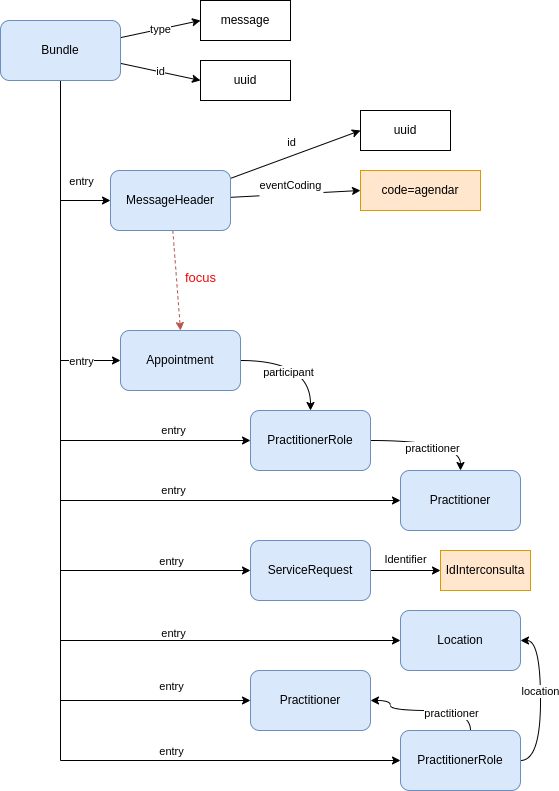
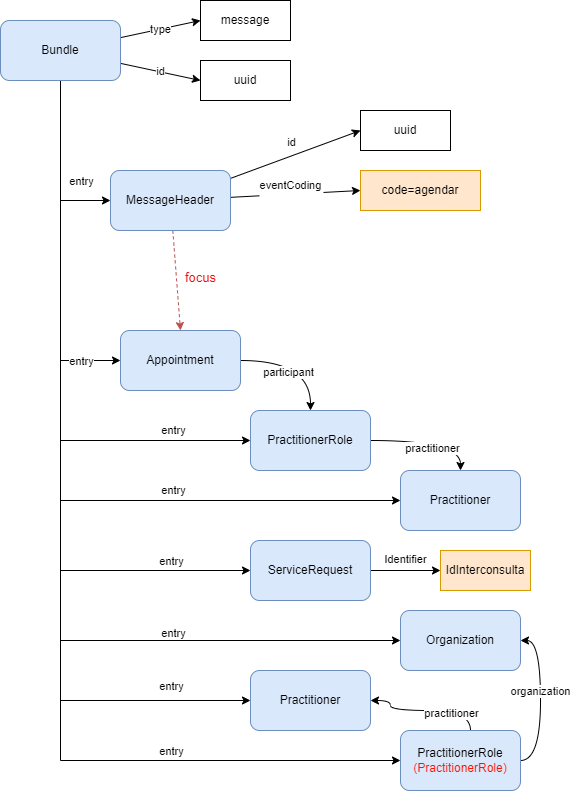
evento agendar v1

diff --git a/input/pagecontent/EventoAgendar.md b/input/pagecontent/EventoAgendar.md
@@ -23,14 +23,15 @@ Los codigos de evento deben ser incluidos en el recurso **MessageHeader.evenCodi
 
 Los recursos usados en este evento son los siguientes:
 
-* [Appointment](link): Recurso principal para reflejar los datos de la interconsulta
-* [MessageHeader](link): lorem
-* [ServiceRequest](link): lorem
-* [PractitionerRole](link): asociado al agendador
-* [Practitioner](link): asociado al agendador
-* [Location](link): asociado al agendador
-* [PractitionerRole](link): asociado al médico asignado
-* [Practitioner](link): asociado al médico asignado
+* [MessageHeaderLE](StructureDefinition-MessageHeaderLE.html): Recurso que contiene datos relacionados al mensaje, como el autor, tipo de evento y foco del mensaje.
+* [MessageHeaderLE](StructureDefinition-Appointment.html): Recurso que contiene datos relacionados a la agenda
+* [PractitionerRoleLE](StructureDefinition-PractitionerRoleLE.html): Recurso que permite reflejar la información relacionada al invididuo autor del proceso
+* [PractitionerLE](StructureDefinition-PractitionerRoleLE.html): Recurso que permite reflejar la información relacionada al profesional de la salud que realiza la atencion
+* [ServiceRequestLE](StructureDefinition-ServiceRequestLE.html): Recurso principal para reflejar los datos de la interconsulta (MessageHeader.focus)
+* [OrganizationLE](StructureDefinition-OrganizationLE.html): Recurso que permite relacionar la interconsulta con el establecimiento de destino
+* [BundleAgendarLE](StructureDefinition-BundleAgendarLE.html): Recurso que permite agrupar los datos del mensaje.
+
+
 ## Relaciones de Recursos
 
 <br>
@@ -50,6 +51,9 @@ Diagrama de Secuencia por definir
 
 Las validaciones internas que debe tener el implementador deben considerar cumplir con el conjunto de datos detallado en [Conjunto mínimo de datos](http://link)
 
+## Mensaje Bundle de Ejemplo
+
+* [BundleAgendarLE](Bundle-EjemploBundleAgendar.html)
 ## Notas
 
 * Notas Adicionales

diff --git a/input/pagecontent/historialCambios.md b/input/pagecontent/historialCambios.md
@@ -15,3 +15,4 @@
 - (Eliminación) Se elimina extension apellido materno de Patient.name.family.
 - (Nuevo) Se agrega extension para segundo apellido Patient.name.family. 
 - (Nuevo) Se agrega Bundle para evento Terminar
+- AppointmentAtenderLE renombrado a AppointmentLE
